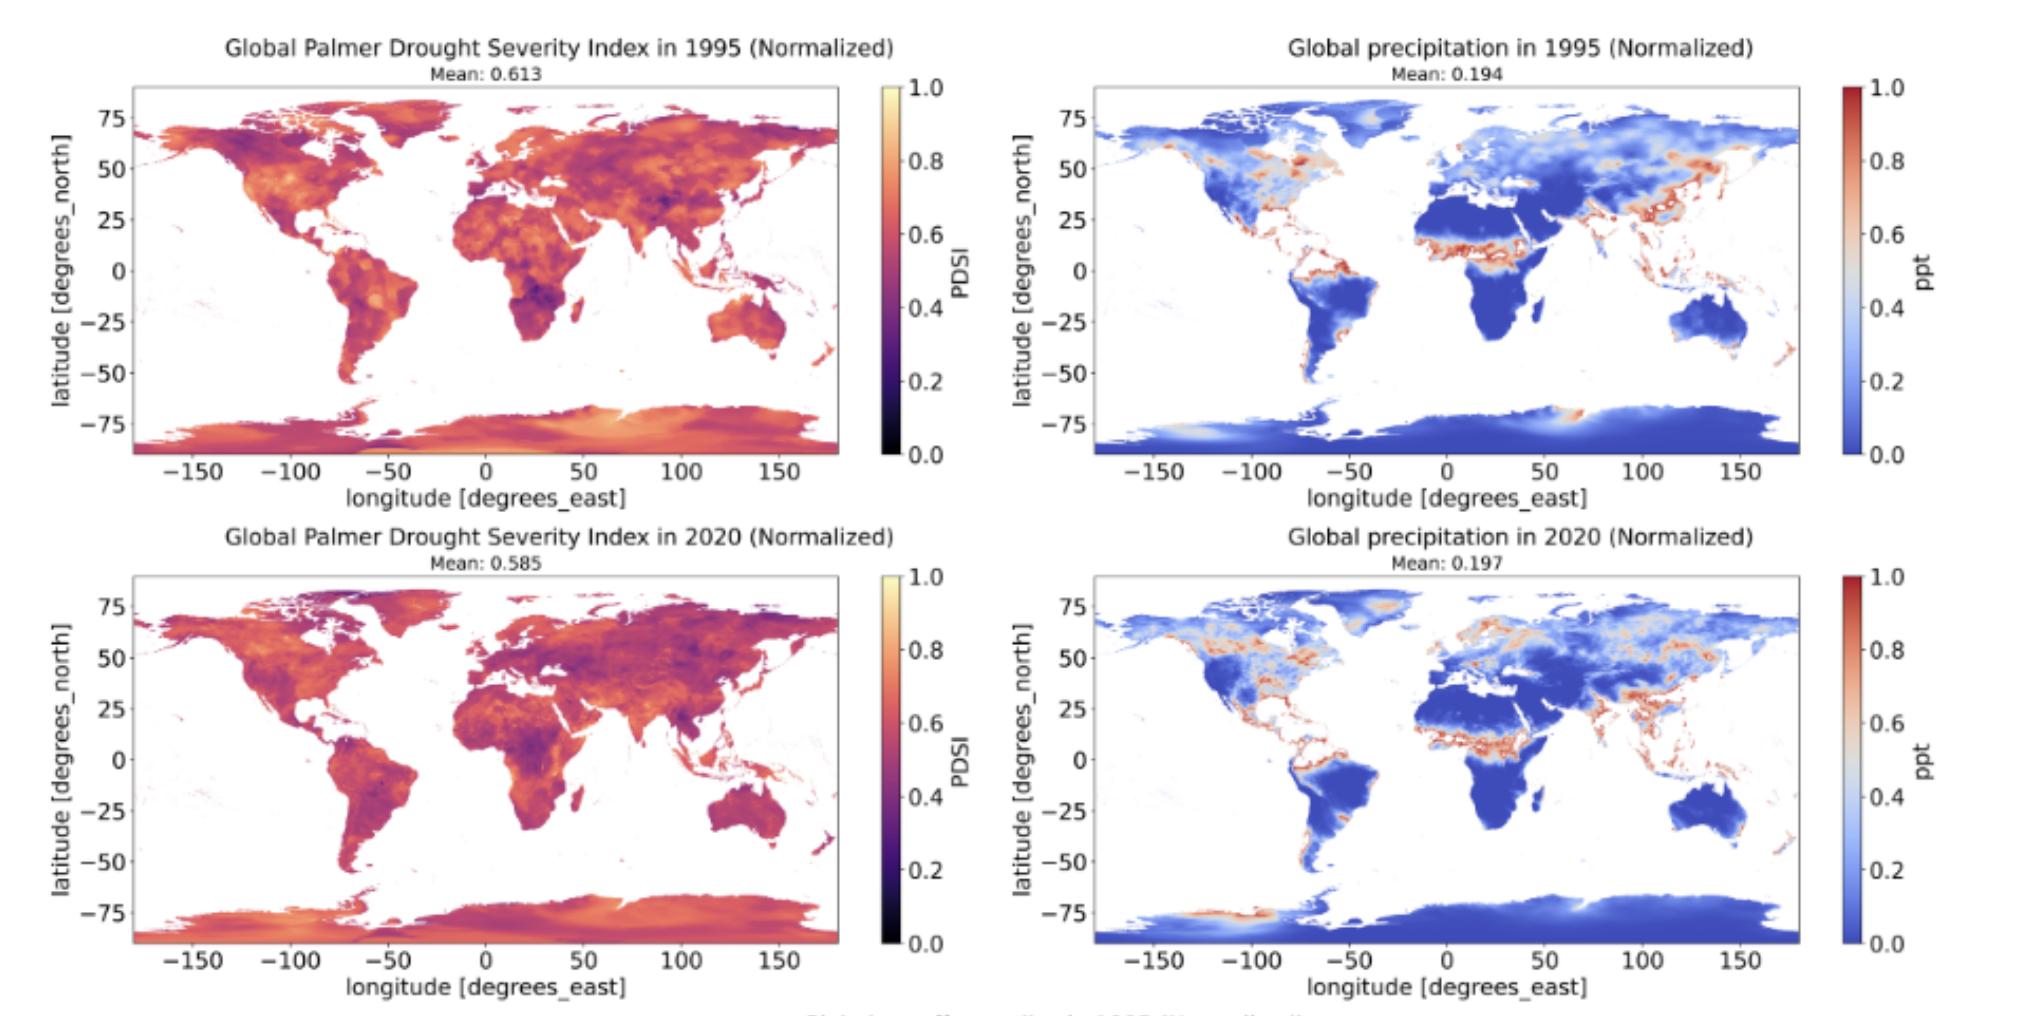
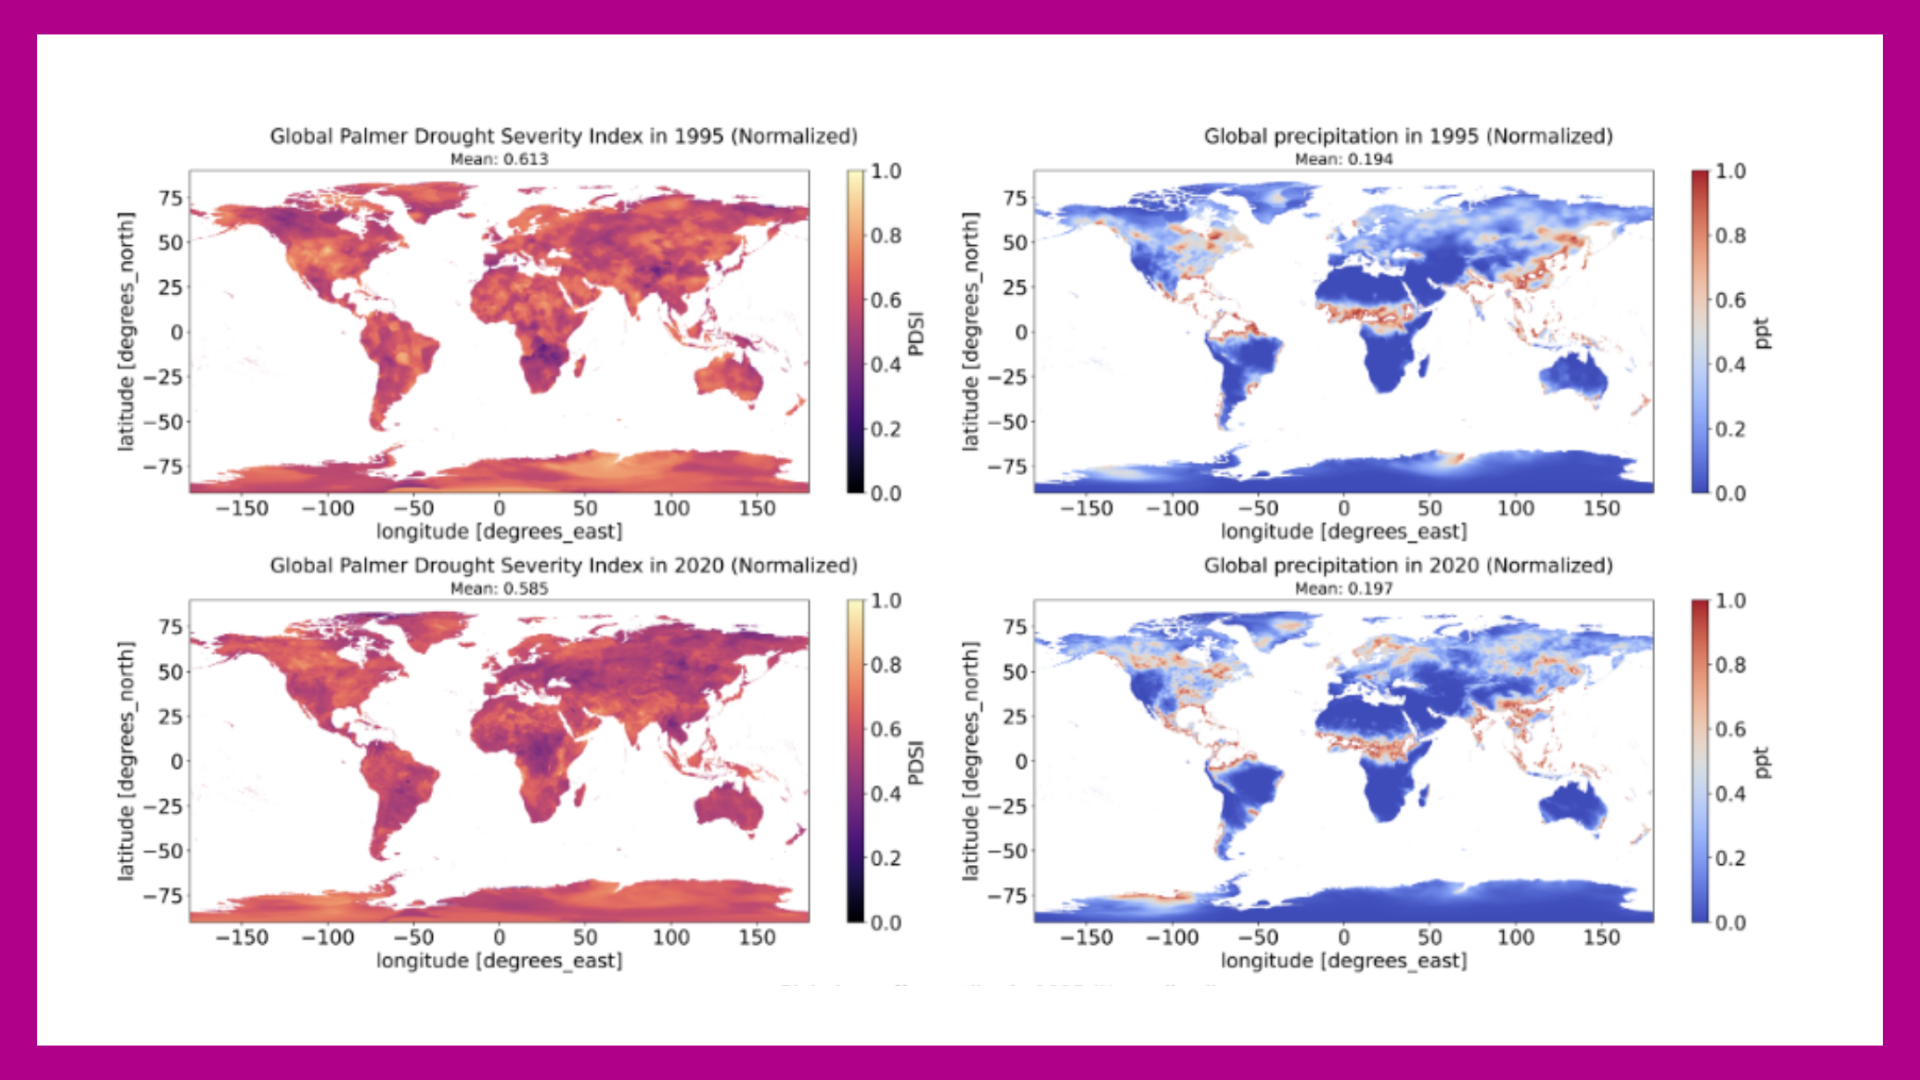
updated project thumbnails; added light pollution map project

diff --git a/_includes/projects.html b/_includes/projects.html
@@ -3,13 +3,13 @@
     <tbody>  
         <tr>
             <td style="padding-right: 20px; width:25%;vertical-align:middle">
-            <img src="assets/img/power_systems.jpg" alt="Power systems project" width="160">
+            <img src="assets/img/power_systems.png" alt="Power systems project" width="160">
             </td>
             <td width="75%" valign="middle">
             <p1>
             <strong>Research in Safe and Constrained Reinforcement Learning</strong>
             <br>[Research Project] @ <strong><a href="https://lids.mit.edu/">Donti Lab (MIT LIDS)</a></strong>.
-            <br> <br><b>In progress</b>. Developing new machine learning techniques to address challenges of safety and complex constraints in sequential decision-making, with potential applications in energy systems.</p1>
+            <br><b>In progress</b>. Developing new machine learning techniques to address challenges of safety and complex constraints in sequential decision-making, with potential applications in energy systems.</p1>
             </td>
         </tr>
     </tbody>
@@ -19,7 +19,7 @@
     <tbody>  
         <tr>
             <td style="padding-right: 20px; width:25%;vertical-align:middle">
-            <img src="assets/img/mechanistic_interpretability.jpg" alt="Mechanistic Interpretability" width="160">
+            <img src="assets/img/mechanistic_interpretability.png" alt="Mechanistic Interpretability" width="160">
             </td>
             <td width="75%" valign="middle">
             <p1>
@@ -31,6 +31,23 @@
     </tbody>
 </table>
 
+<h2 style="padding-top: 30px;"><b>projects</b></h2>
+<table style="padding-top: 10px;width:100%;border:0px;border-spacing:0px;border-collapse:separate;margin-right:auto;margin-left:auto;">
+    <tbody>  
+        <tr>
+            <td style="padding-right: 20px; width:25%;vertical-align:middle">
+            <img src="assets/img/light_pollution_map.png" alt="Power systems project" width="160">
+            </td>
+            <td width="75%" valign="middle">
+            <p1>
+            <strong>Light Pollution Map</strong>
+            <br>[Internship Project] @ <strong><a href="https://rocketinnovationstudio.ca/">Rocket Innovation Studio</a></strong>.
+            <br>[<a href="/">Demo coming soon!</a>]
+            <br>AI-powered interactive map to help cities reduce light pollution and improve the quality of life for residents. Integration of an AI assistant to provide actionable insights and recommendations for reducing light pollution. Exportable reports for city officials to make informed decisions.</p1>
+            </td>
+        </tr>
+    </tbody>
+</table>
 
 <table style="padding-top: 10px;width:100%;border:0px;border-spacing:0px;border-collapse:separate;margin-right:auto;margin-left:auto;">
     <tbody>  
@@ -42,7 +59,8 @@
             <p1>
                 <strong>Edge AI for Real-Time Audio Recognition: A Voice-Controlled Sound System</strong>
                 <br>[Club Project] @ <strong><a href="https://ieee.utoronto.ca/">IEEE UofT</a></strong>. With Adam O., Katherine Y., Grace S., and Athavan B.
-                <br>Contributed to an IEEE UofT project developing an edge AI tool for real-time sound recognition. The device recognizes speech and plays different sounds based on the user's command. Implemented and deployed a real-time Whisper model on a Raspberry Pi with embeddings to match the user's command to the correct sound.<br>
+                <br>[<a href="/">Demo coming soon!</a>]
+                <br>Co-developed an edge AI tool for real-time sound recognition. The device recognizes speech and plays different sounds based on the user's command. Implemented and deployed a real-time Whisper model on a Raspberry Pi with embeddings to match the user's command to the correct sound.<br>
             </p1>
             </td>
         </tr>
@@ -54,7 +72,7 @@
     <tbody>  
         <tr>
             <td style="padding-right: 20px; width:25%;vertical-align:middle">
-            <video src="assets/img/implicito.mp4" width="160" controls>Your browser does not support the video tag.</video>
+            <video src="assets/img/implicito.mp4" width="160">Your browser does not support the video tag.</video>
             </td>
             <td width="75%" valign="middle">
             <p1>
@@ -76,7 +94,8 @@
             <td width="75%" valign="middle">
             <p1>
                 <strong>Comparison of Regression Algorithms in Multivariable Drought Modeling and Analysis</strong>
-                <br>[Research Project]</strong> Bronze medal at Canada Wide Science Fair 2023. Oral presentation at the 23rd AMS Conference on Artificial Intelligence for Environmental Science. [<a href="https://partner.projectboard.world/ysc/project/comparison-of-regression-algorithms-in-multivariable-drought-modeling-and-analysis">Link to project</a>]
+                <br>[Research Project]</strong> Bronze medal at Canada Wide Science Fair 2023. Oral presentation at the 23rd AMS Conference on Artificial Intelligence for Environmental Science.
+                <br>[<a href="https://partner.projectboard.world/ysc/project/comparison-of-regression-algorithms-in-multivariable-drought-modeling-and-analysis">Link to project</a>]
                 <br>Used and compared classical machine learning algorithms to study the relationship between drought and various climate factors in diverse regions around the world.<br>
             </p1>
             </td>
@@ -88,12 +107,13 @@
     <tbody>  
         <tr>
             <td style="padding-right: 20px; width:25%;vertical-align:middle">
-            <img src="assets/img/ndvi.jpg" alt="NDVI" width="160">
+            <img src="assets/img/ndvi.png" alt="NDVI" width="160">
             </td>
             <td width="75%" valign="middle">
             <p1>
                 <strong>Multiple Factor Regression Analysis of Vegetation Changes and Land Degradation in Drylands</strong>
-                <br>[Research Project]</strong> Third place at the International Science and Engineering Fair 2022, Earth and Environmental Sciences category. Poster presentation at the 23rd AMS Student Conference. [<a href="https://abstracts.societyforscience.org/Home/FullAbstract?ISEFYears=0%2C&Category=Any%20Category&AllAbstracts=True&FairCountry=Any%20Country&FairState=Any%20State&ProjectId=22796">Link to project</a>]
+                <br>[Research Project]</strong> Third place at the International Science and Engineering Fair 2022, Earth and Environmental Sciences category. Poster presentation at the 23rd AMS Student Conference.
+                <br>[<a href="https://abstracts.societyforscience.org/Home/FullAbstract?ISEFYears=0%2C&Category=Any%20Category&AllAbstracts=True&FairCountry=Any%20Country&FairState=Any%20State&ProjectId=22796">Link to project</a>]
                 <br>Used multiple regression to understand the relationship between different environmental factors (like climate, human activity, and soil properties) and changes in vegetation cover and land degradation in dryland regions.<br>
             </p1>
             </td>

diff --git a/_includes/education.html b/_includes/education.html
@@ -10,7 +10,7 @@
       <strong>University of Toronto</strong></p>
       <p1><a href="https://www.engineering.utoronto.ca/">BASc. in Engineering</a> | 2023-2028 (expected)
       <br><strong>Industrial Engineering Major, Artificial Intelligence Minor</strong>
-      Activities: Academic Outreach Director at IEEE UofT, VP Student Academics at SEA UofT.
+      <br>Activities: Academic Outreach Director at IEEE UofT, VP Student Academics at SEA UofT.
       </p1>
     </td>
   </tr>

diff --git a/_pages/about.md b/_pages/about.md
@@ -33,6 +33,6 @@ Hello! I am an undergraduate Industrial Engineering student at the University of
 
 My core interest lies in applying robust AI/ML, operations research, and optimization techniques to create intelligent solutions for real-world problems like energy systems, sustainability, and geospatial applications.
 
-Currently, I'm developing novel machine learning approaches for handling strict, complex constraints in power systems as a research student with Prof. Priya Donti (MIT <a href="https://www.eecs.mit.edu/">EECS</a> & <a href="https://lids.mit.edu/">LIDS</a>). Alongside my research, I am also an AI intern at <a href="https://rocketinnovationstudio.ca/">Rocket Innovation Studio</a> (Architecture team), contributing to the development of AI-driven solutions for <a href="https://rocketmortgage.ca/">Rocket</a>'s business needs. At UofT, I have worked with Prof. <a href="https://www.cs.toronto.edu/~florian/">Florian Shkurti</a> (<a href="https://vectorinstitute.ai/">Vector Institute</a>, <a href="https://robotics.utoronto.ca/">UofT Robotics Institute</a>) on perception algorithms implementation.
+Currently, I'm developing novel machine learning approaches for handling strict, complex constraints in power systems as a research student with Prof. <a href="https://priyadonti.com/">Priya Donti</a> (MIT <a href="https://www.eecs.mit.edu/">EECS</a> & <a href="https://lids.mit.edu/">LIDS</a>). Alongside my research, I am also an AI intern at <a href="https://rocketinnovationstudio.ca/">Rocket Innovation Studio</a> (Architecture team), contributing to the development of AI-driven solutions for <a href="https://rocketmortgage.ca/">Rocket</a>'s business needs. At UofT, I have worked with Prof. <a href="https://www.cs.toronto.edu/~florian/">Florian Shkurti</a> (<a href="https://vectorinstitute.ai/">Vector Institute</a>, <a href="https://robotics.utoronto.ca/">UofT Robotics Institute</a>) on perception algorithms implementation.
 
 I'm driven by the challenge of designing intelligent systems that are not only effective but also safe and reliable, especially within critical domains.
